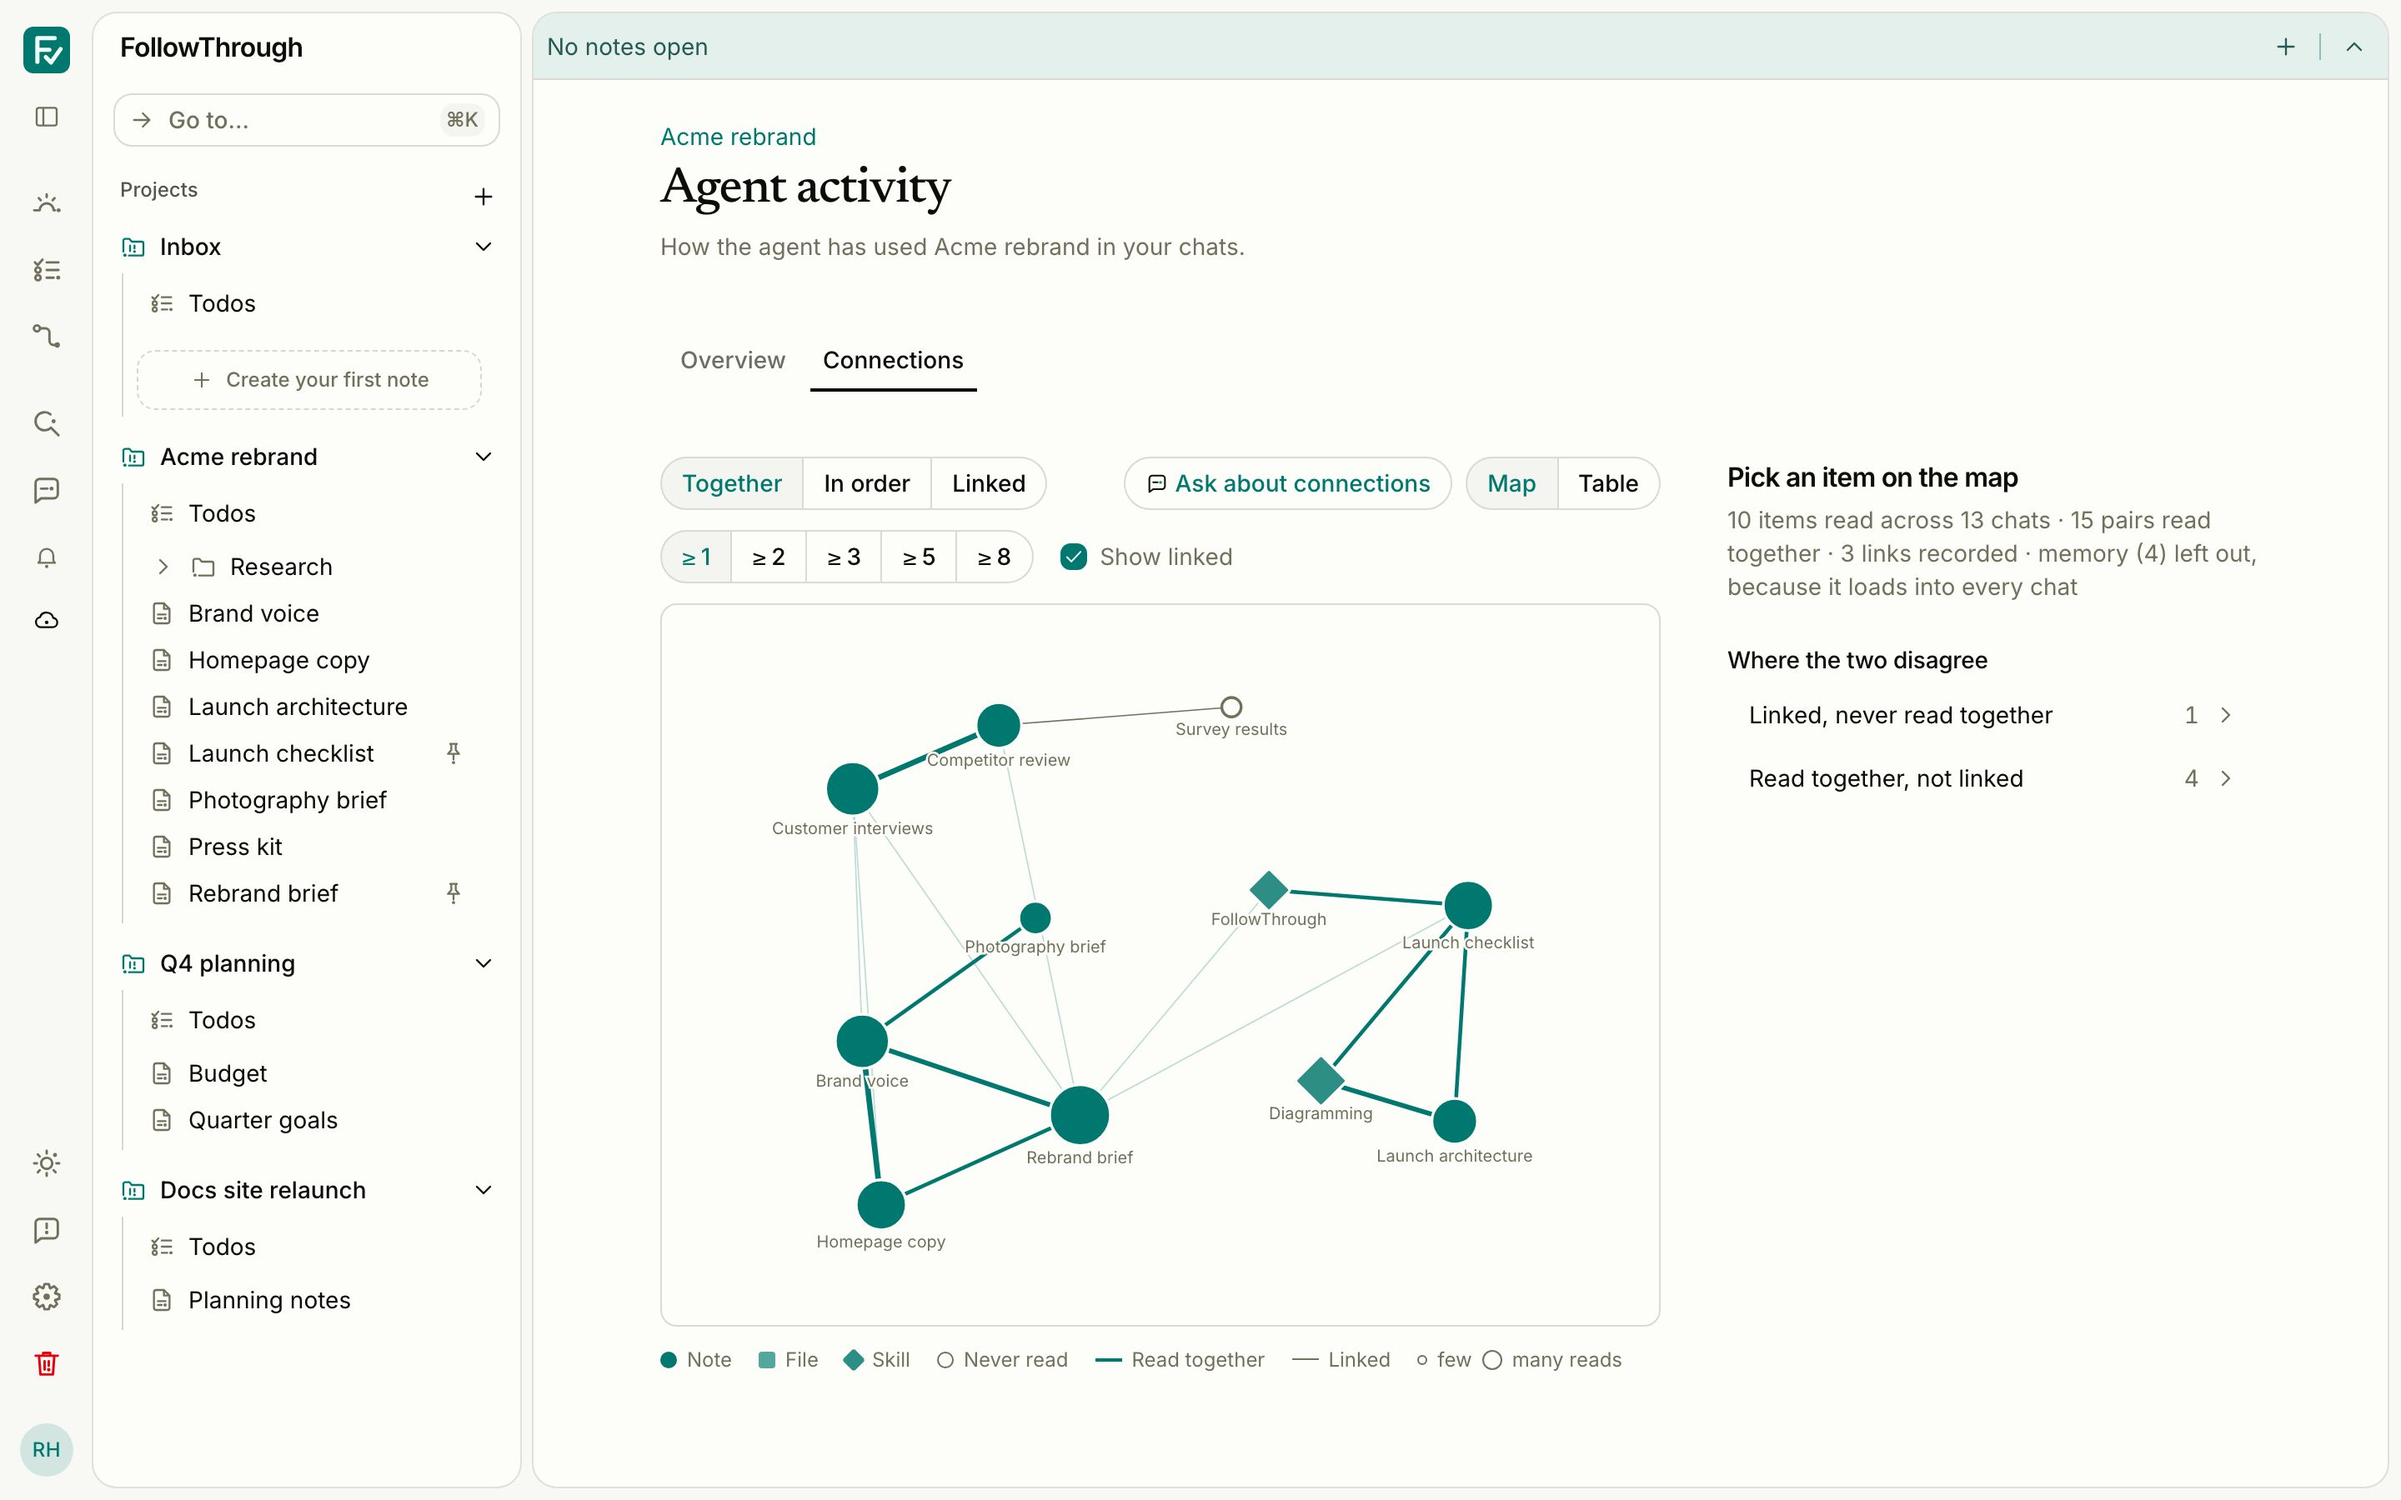
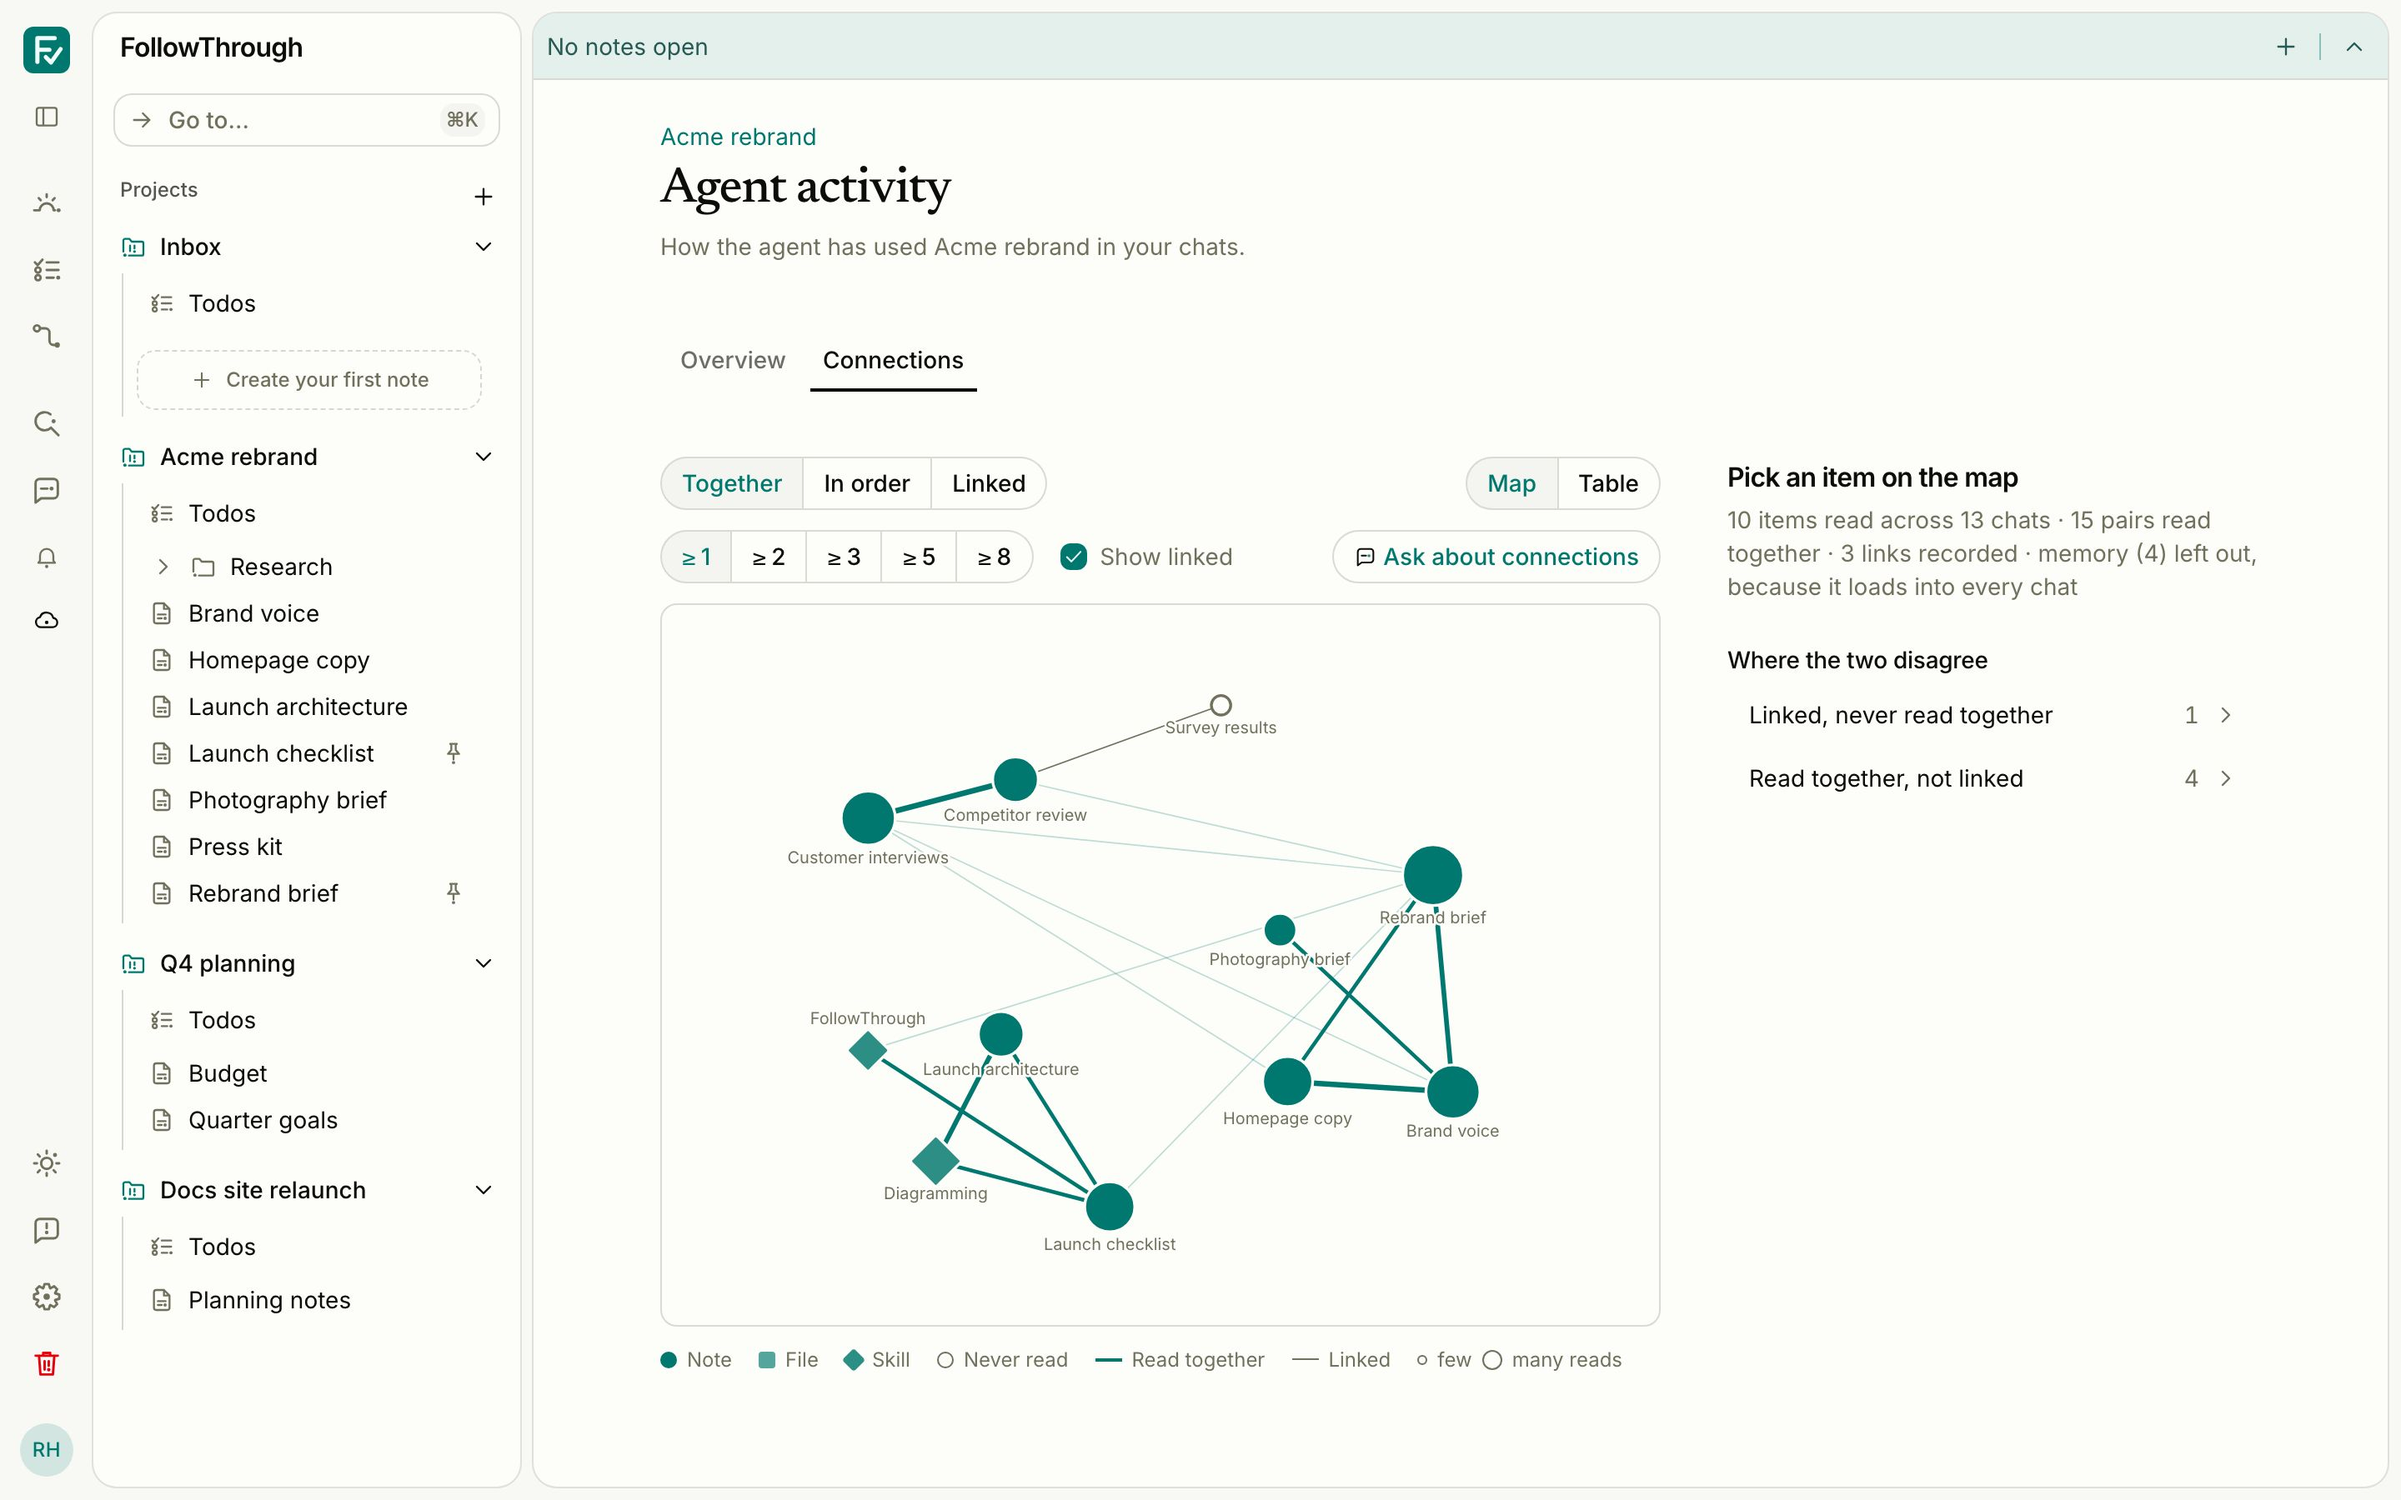
fix(context-usage): put ask about connections at the end of the threshold row

diff --git a/src/lib/components/projects/context-usage/connections/connections-map.svelte b/src/lib/components/projects/context-usage/connections/connections-map.svelte
@@ -117,7 +117,46 @@
 					<ToggleGroup.Item value="order">In order</ToggleGroup.Item>
 					<ToggleGroup.Item value="linked">Linked</ToggleGroup.Item>
 				</ToggleGroup.Root>
-				<div class="ml-auto flex flex-wrap items-center gap-2">
+				<ToggleGroup.Root
+					type="single"
+					variant="outline"
+					size="sm"
+					value={show}
+					onValueChange={(value) => (show = value === 'table' ? 'table' : 'map')}
+					aria-label="View"
+				>
+					<ToggleGroup.Item value="map">Map</ToggleGroup.Item>
+					<ToggleGroup.Item value="table">Table</ToggleGroup.Item>
+				</ToggleGroup.Root>
+			</div>
+			<!-- The threshold controls hide in Linked mode; the ask button stays at the row's end. -->
+			<div class="flex flex-wrap items-center justify-between gap-2">
+				<div
+					class={['flex flex-wrap items-center gap-x-4 gap-y-2', mode === 'linked' && 'invisible']}
+				>
+					<ToggleGroup.Root
+						type="single"
+						variant="outline"
+						size="sm"
+						value={String(min)}
+						onValueChange={(value) => (min = Number(value) || min)}
+						aria-label="Fewest shared chats"
+					>
+						{#each thresholds as threshold (threshold)}
+							<ToggleGroup.Item value={String(threshold)} aria-label="At least {chats(threshold)}"
+								>≥ {threshold}</ToggleGroup.Item
+							>
+						{/each}
+					</ToggleGroup.Root>
+					<div class="flex items-center gap-2">
+						<Checkbox id="show-linked" bind:checked={showLinked} />
+						<Label for="show-linked" class="text-sm font-normal text-muted-foreground"
+							>Show linked</Label
+						>
+					</div>
+				</div>
+				<!-- Right-aligned even when the row wraps. -->
+				<div class="ml-auto">
 					<ConnectionsAsk
 						{report}
 						{projectId}
@@ -125,41 +164,6 @@
 						selected={selectedNode}
 						onask={askAgent}
 					/>
-					<ToggleGroup.Root
-						type="single"
-						variant="outline"
-						size="sm"
-						value={show}
-						onValueChange={(value) => (show = value === 'table' ? 'table' : 'map')}
-						aria-label="View"
-					>
-						<ToggleGroup.Item value="map">Map</ToggleGroup.Item>
-						<ToggleGroup.Item value="table">Table</ToggleGroup.Item>
-					</ToggleGroup.Root>
-				</div>
-			</div>
-			<div
-				class={['flex flex-wrap items-center gap-x-4 gap-y-2', mode === 'linked' && 'invisible']}
-			>
-				<ToggleGroup.Root
-					type="single"
-					variant="outline"
-					size="sm"
-					value={String(min)}
-					onValueChange={(value) => (min = Number(value) || min)}
-					aria-label="Fewest shared chats"
-				>
-					{#each thresholds as threshold (threshold)}
-						<ToggleGroup.Item value={String(threshold)} aria-label="At least {chats(threshold)}"
-							>≥ {threshold}</ToggleGroup.Item
-						>
-					{/each}
-				</ToggleGroup.Root>
-				<div class="flex items-center gap-2">
-					<Checkbox id="show-linked" bind:checked={showLinked} />
-					<Label for="show-linked" class="text-sm font-normal text-muted-foreground"
-						>Show linked</Label
-					>
 				</div>
 			</div>
 
